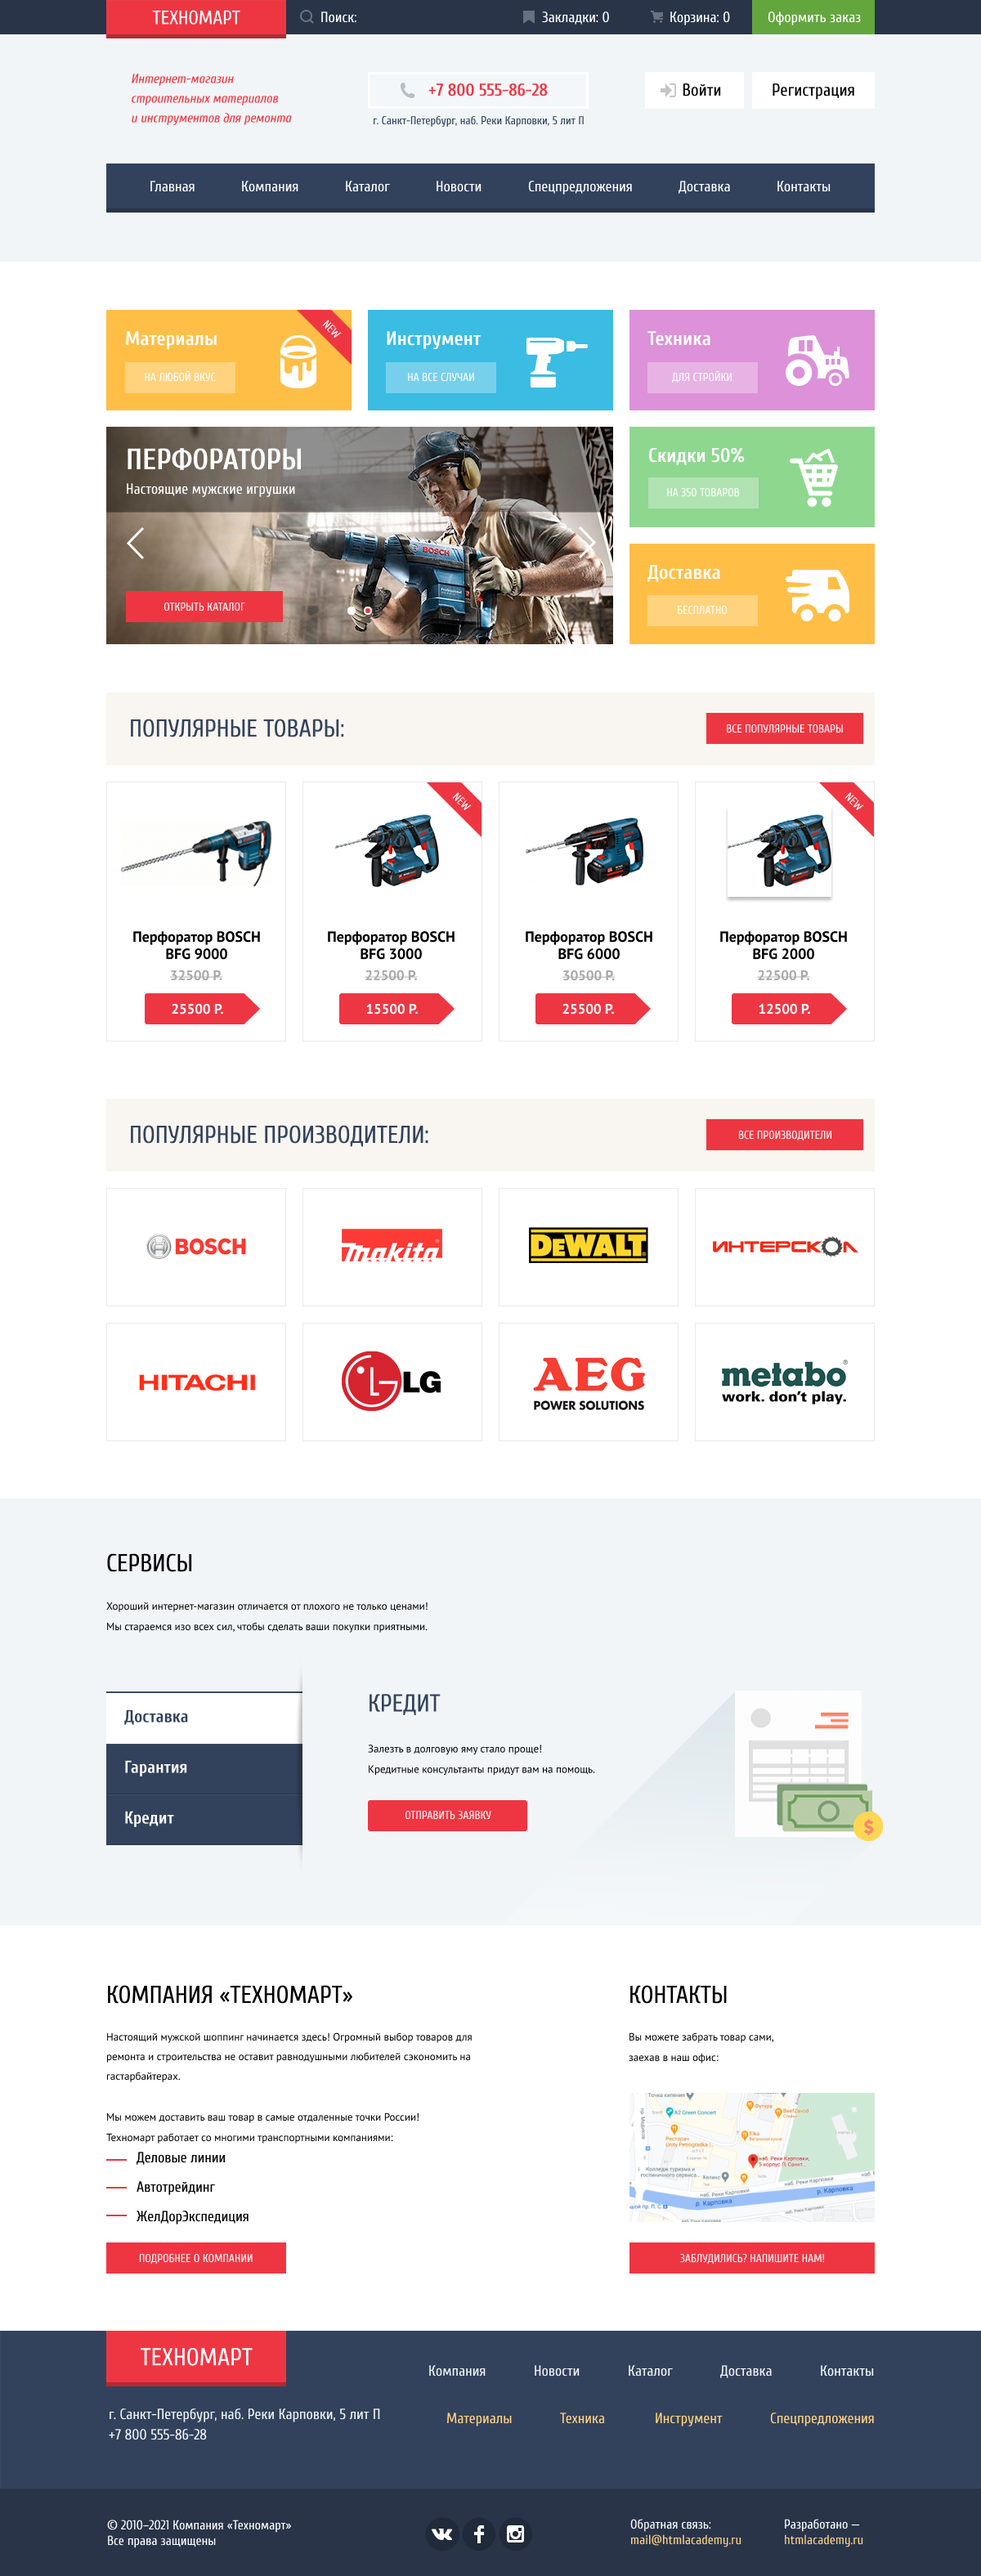
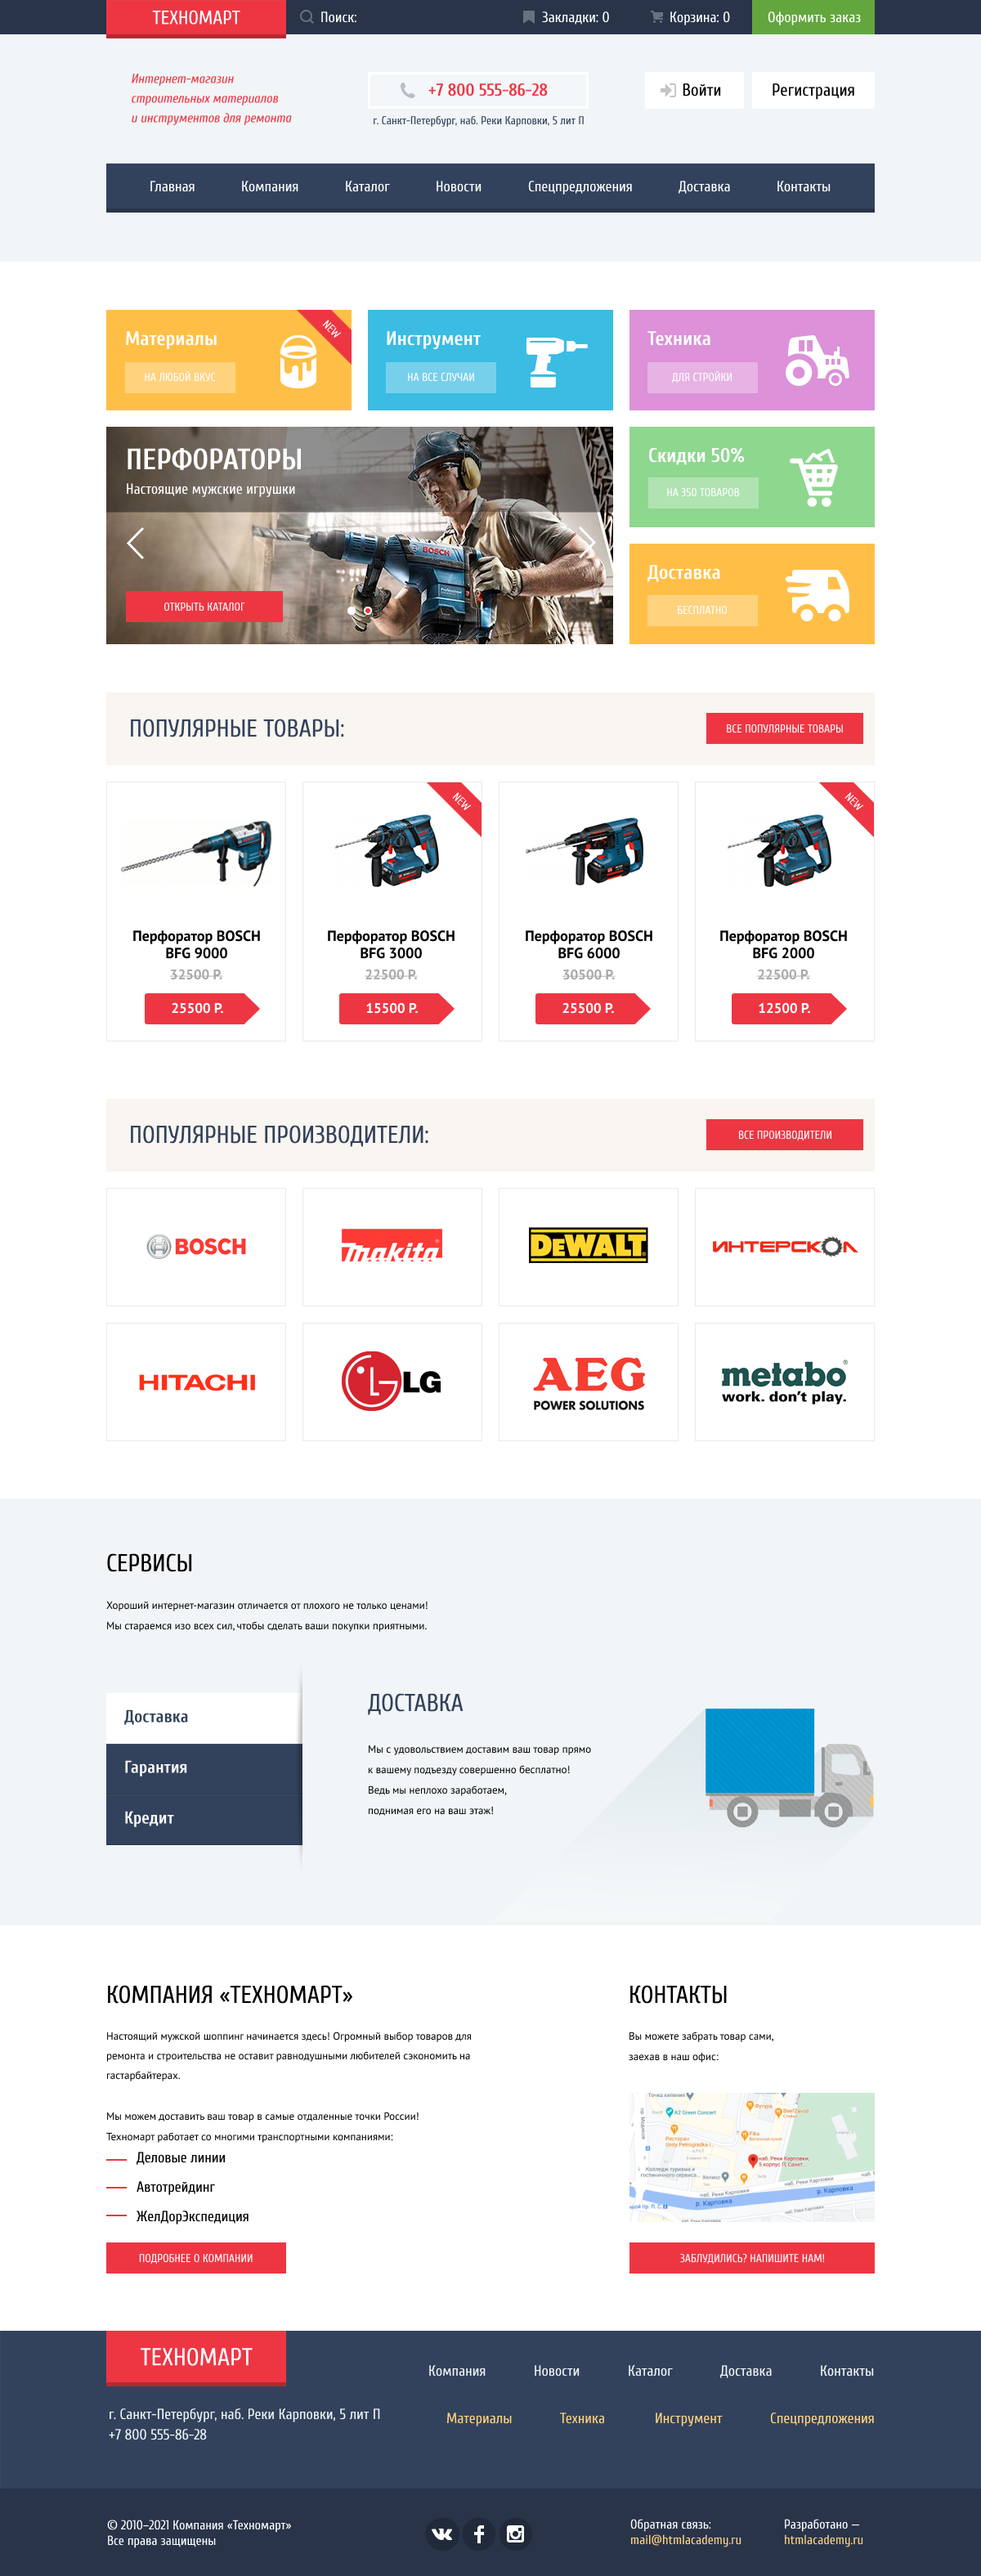
ПП блока гарантии

diff --git a/styles/css/main.css b/styles/css/main.css
@@ -1345,6 +1345,7 @@ img{
 }
     
     .services-desc-list__item{
+        position: relative;
         min-height: 286px;
         padding-left: 60px;
         background-repeat: no-repeat;
@@ -1356,10 +1357,16 @@ img{
         background-position: right 20px;
     }
 
-    .services-desc-list__item--guarantee {
+    .services-desc-list__item--guarantee::after{
+        content: "";
+        position: absolute;
+        top:0;
+        right: -8px;
         background-image: url("../../img/guarantee.png");
         background-size: 389px 283px;
-        background-position: right top;
+        width: 389px;
+        height: 283px;
+        
     }
 
     .services-desc-list__item--credit {
@@ -1393,6 +1400,13 @@ img{
     color: var(--black);
     
 }
+
+    .services-desc-list__item--guarantee .services-desc__title{
+        margin-bottom: 19px;
+    }
+
+   
+
 
 .services-desc__btn {
     display: inline-block;

diff --git a/index.html b/index.html
@@ -532,7 +532,7 @@
 
         <ul class="services-desc-list reset-list">
 
-          <li class="services-desc-list__item services-desc-list__item--divery ">
+          <li class="services-desc-list__item services-desc-list__item--divery display-none">
 
             <h3 class="services-desc__title title">Доставка</h3>
 
@@ -542,7 +542,7 @@
               поднимая его на ваш этаж!</p>
           </li>
 
-          <li class="services-desc-list__item services-desc-list__item--guarantee display-none">
+          <li class="services-desc-list__item services-desc-list__item--guarantee ">
 
             <h3 class="services-desc__title title">Гарантия</h3>
 
